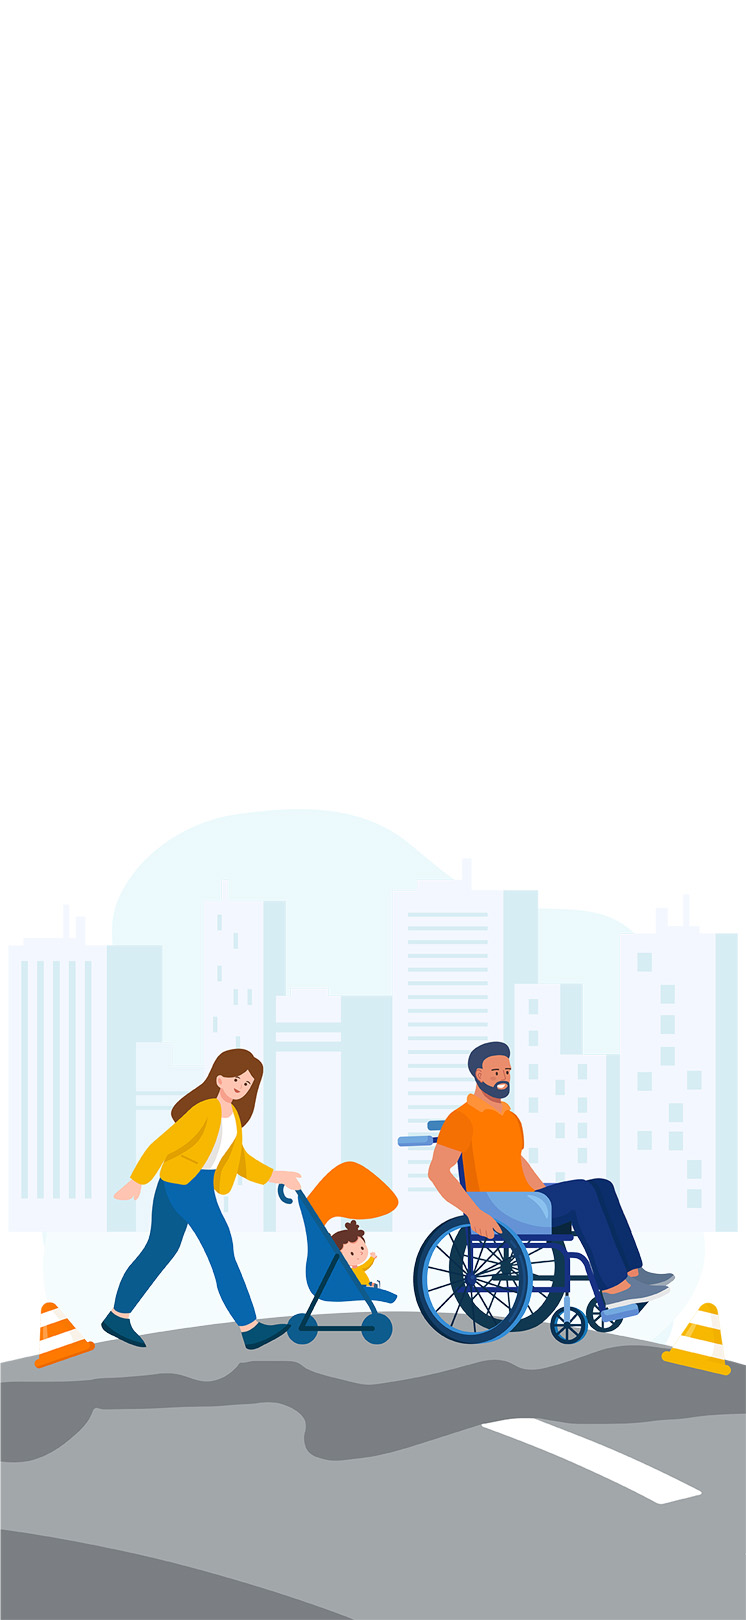
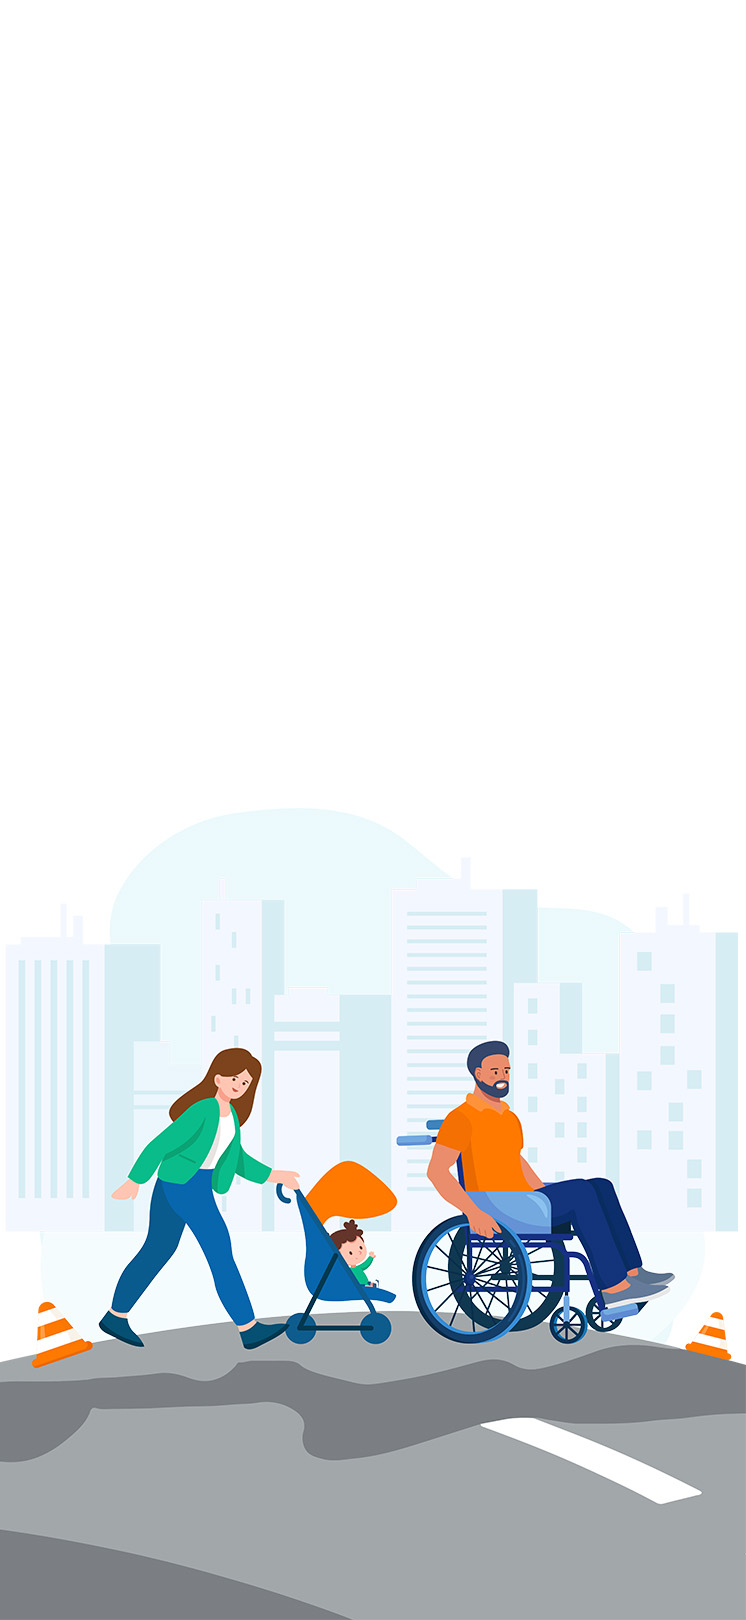
Fixed image

diff --git a/app/assets/stylesheets/pages/_home.scss b/app/assets/stylesheets/pages/_home.scss
@@ -28,10 +28,10 @@ h2 {
 
 .login-page {
   object-fit: cover;
-  height: 120vh;
+  height: 100vh;
   flex-direction: row;
-  background-image: url("pathroll.jpg");
-  background-size: contain; /* Set the background size to cover the container */
+  background-image: url("pathroll2.jpg");
+  background-size: cover; /* Set the background size to cover the container */
   background-repeat: no-repeat; /* Prevent the background image from repeating */
   background-position: center;
 }
